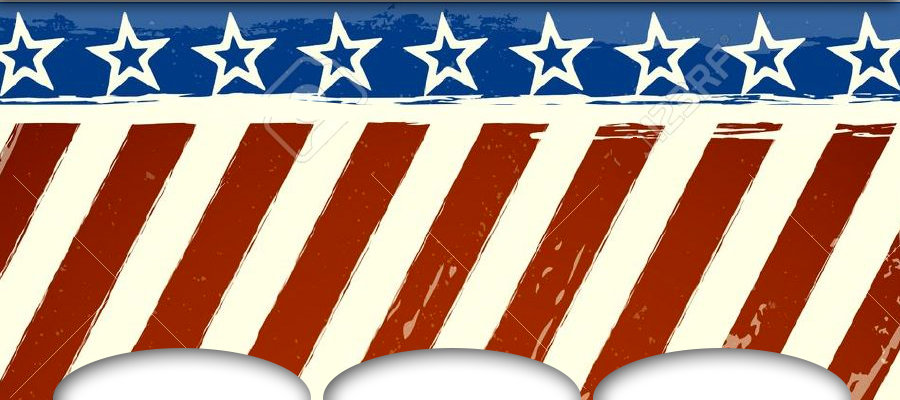
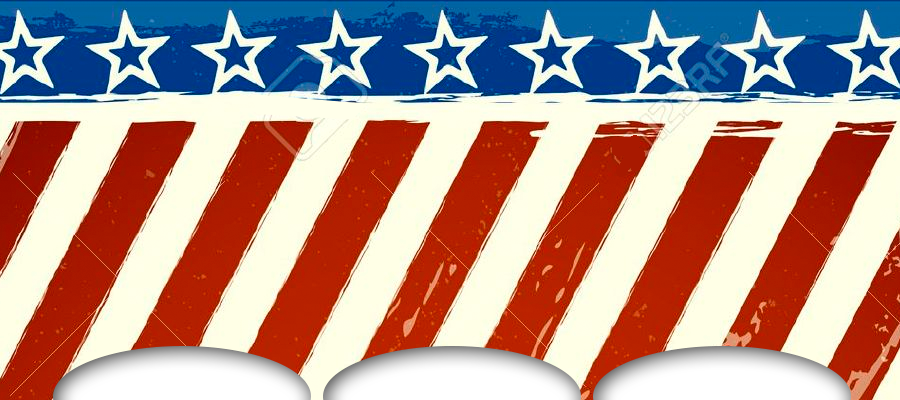
Rendering is now at a decent level.

diff --git a/core/src/com/whackamole/game/views/BoardRenderer.java b/core/src/com/whackamole/game/views/BoardRenderer.java
@@ -55,10 +55,13 @@ public class BoardRenderer {
 
         batch.begin();
         batch.draw(board_score, 0, 13*height/16, width, 3*height/16);
+        batch.draw(board_score, 0, 7*height/16, width, 3*height/16);
         batch.draw(board_top, 0, 9*height/16, width, height/4);
         drawMole(5,9);
+        batch.draw(board_score, 0, 5*height/16, width, 2*height/16);
         batch.draw(board_second_top, 0, 6*height/16, width, 3*height/16);
         drawMole(2,6);
+        batch.draw(board_score, 0, 2*height/16, width, 2*height/16);
         batch.draw(board_second_bottom, 0, 3*height/16, width, 3*height/16);
         drawMole(-1, 3);
         batch.draw(board_bottom, 0, 0 , width, 3*height/16);

diff --git a/core/src/com/whackamole/game/utils/Constants.java b/core/src/com/whackamole/game/utils/Constants.java
@@ -13,7 +13,7 @@ public class Constants {
 
     public static final int numOfMoles = 1;
     public static final Theme theme = Theme.PRESIDENTIAL;
-    public static final int themeID = 0;
+    public static final int themeID = 1;
     public static final boolean isSound = true;
     public static final String username = "";
 
